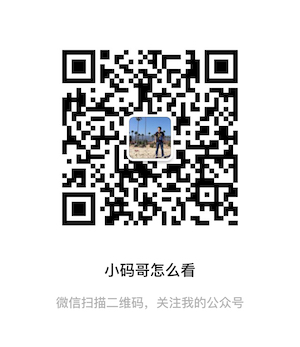
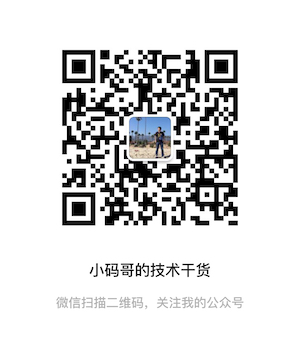
update qr code

Changed region(s): [[0.3, 0.7493, 0.72, 0.8069]]

diff --git a/posts/2011-11-07-design-of-baigetan/index.html b/posts/2011-11-07-design-of-baigetan/index.html
@@ -121,9 +121,9 @@
         
         <li><a href="/posts/2011-10-01-snapshot-of-10-1/">十一掠影</a></li>
         
-        <li><a href="/posts/2011-09-28-hello-baigetan/">摆摊网</a></li>
-        
         <li><a href="/about/">关于我</a></li>
+        
+        <li><a href="/posts/2011-09-28-hello-baigetan/">摆摊网</a></li>
         
     </ul>
 </div>

diff --git a/posts/2011-10-01-snapshot-of-10-1/index.html b/posts/2011-10-01-snapshot-of-10-1/index.html
@@ -117,9 +117,9 @@
     <h2>See Also</h2>
     <ul class="listing">
         
-        <li><a href="/posts/2011-09-28-hello-baigetan/">摆摊网</a></li>
-        
         <li><a href="/about/">关于我</a></li>
+        
+        <li><a href="/posts/2011-09-28-hello-baigetan/">摆摊网</a></li>
         
         <li><a href="/archives/">归档</a></li>
         

diff --git a/posts/2011-11-08-think-of-baigetan/index.html b/posts/2011-11-08-think-of-baigetan/index.html
@@ -125,7 +125,7 @@
         
         <li><a href="/posts/2011-10-01-snapshot-of-10-1/">十一掠影</a></li>
         
-        <li><a href="/about/">关于我</a></li>
+        <li><a href="/posts/2011-09-28-hello-baigetan/">摆摊网</a></li>
         
     </ul>
 </div>

diff --git a/css/style.css b/css/style.css
@@ -709,6 +709,11 @@ img.alignright {
     text-align: center;
     width: 100%;
 }
+.info404 .post-archive {
+    text-align: left;
+    width: 50%;
+    margin: 40px auto;
+}
 #footer404{
     margin-top:30px;
 }
